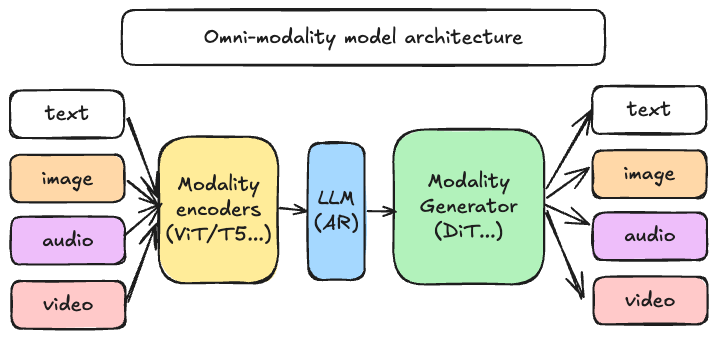
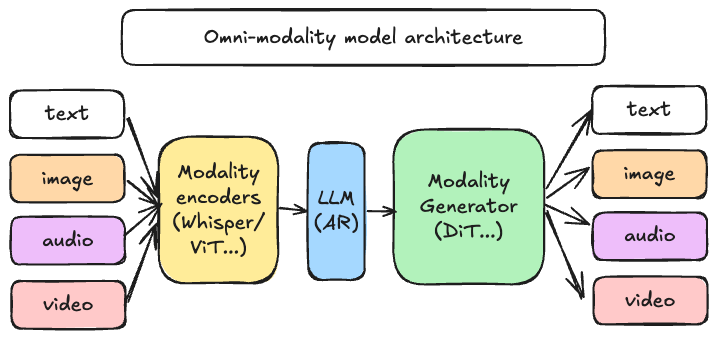
update omni-modality model arch & fix meeting time to PDT & fix typos

Changed region(s): [[0.2148, 0.4734, 0.3989, 0.7396], [0.3068, 0.7396, 0.3375, 0.7692]]

diff --git a/_posts/2025-11-30-vllm-omni.md b/_posts/2025-11-30-vllm-omni.md
@@ -66,9 +66,9 @@ We benchmarked vLLM-Omni against Hugging Face Transformers to demonstrate the ef
 vLLM-Omni is evolving rapidly. Our roadmap is focused on expanding model support and pushing the boundaries of efficient inference even further as well as building the right framework to empower future research on omni-modality models.
 
 * **Expanded Model Support:** We plan to support a wider range of open-source omni-models and diffusion transformers as they emerge.  
-* **Adaptive Framework Refinement**: We will continue to evolve and improve the frameworkto support emerging omni-modality models and execution patterns, ensuring that it remains a reliable foundation for both production workloads and cutting-edge research. 
+* **Adaptive Framework Refinement**: We will continue to evolve and improve the framework to support emerging omni-modality models and execution patterns, ensuring that it remains a reliable foundation for both production workloads and cutting-edge research. 
 * **Deeper vLLM Integration:** merging core omni-features upstream to make multi-modality a first-class citizen in the entire vLLM ecosystem.
-* **Diffusion Acceleration:** parallel inference(DP/TP/SP/USP...),  cache acceleration(TeaCache/DBCache...) and compute acceleration(quantization/sparse attn...).
+* **Diffusion Acceleration:** parallel inference(DP/TP/SP/USP...),  cache acceleration(TeaCache/DBCache...) and compute acceleration(quantization/sparse attention...).
 * **Full disaggregation:** Based on the OmniStage abstraction, we expect to support full disaggregation (encoder/prefill/decode/generation) across different inference stages in order to improve throughput and reduce latency.
 * **Hardware Support:** Following the hardware plugin system, we plan to expand our support for various hardware backends to ensure vLLM-Omni runs efficiently everywhere.  
 
@@ -95,6 +95,6 @@ This is just the beginning for omni-modality serving. We are actively developing
 
 * **Code & Docs:** [GitHub Repository](https://github.com/vllm-project/vllm-omni) | [Documentation](https://vllm-omni.readthedocs.io/en/latest/) 
 * **Slack:** Join `#sig-omni` channel under vLLM slack at [slack.vllm.ai](https://slack.vllm.ai) 
-* **Weekly Meeting:** Join us every Wednesday at 11:30 (UTC+8) to discuss roadmap and features. [Join here](https://tinyurl.com/vllm-omni-meeting).
+* **Weekly Meeting:** Join us every Wednesday at 19:30 PDT time to discuss roadmap and features. [Join here](https://tinyurl.com/vllm-omni-meeting).
 
 Let's build the future of omni-modal serving together\!
